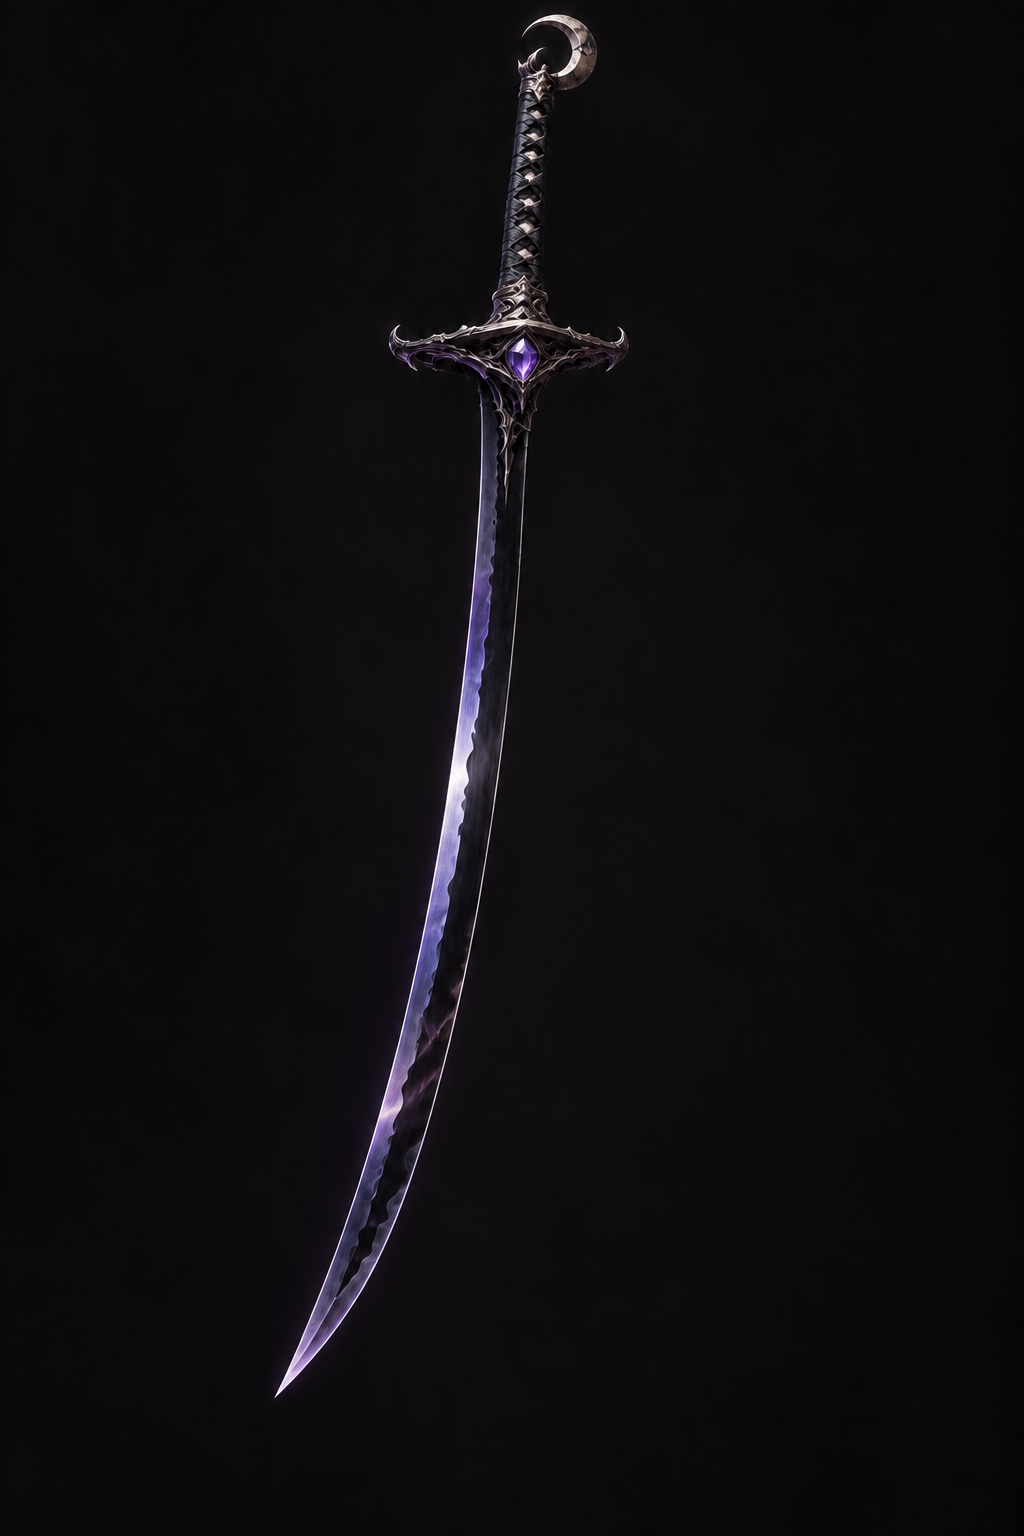
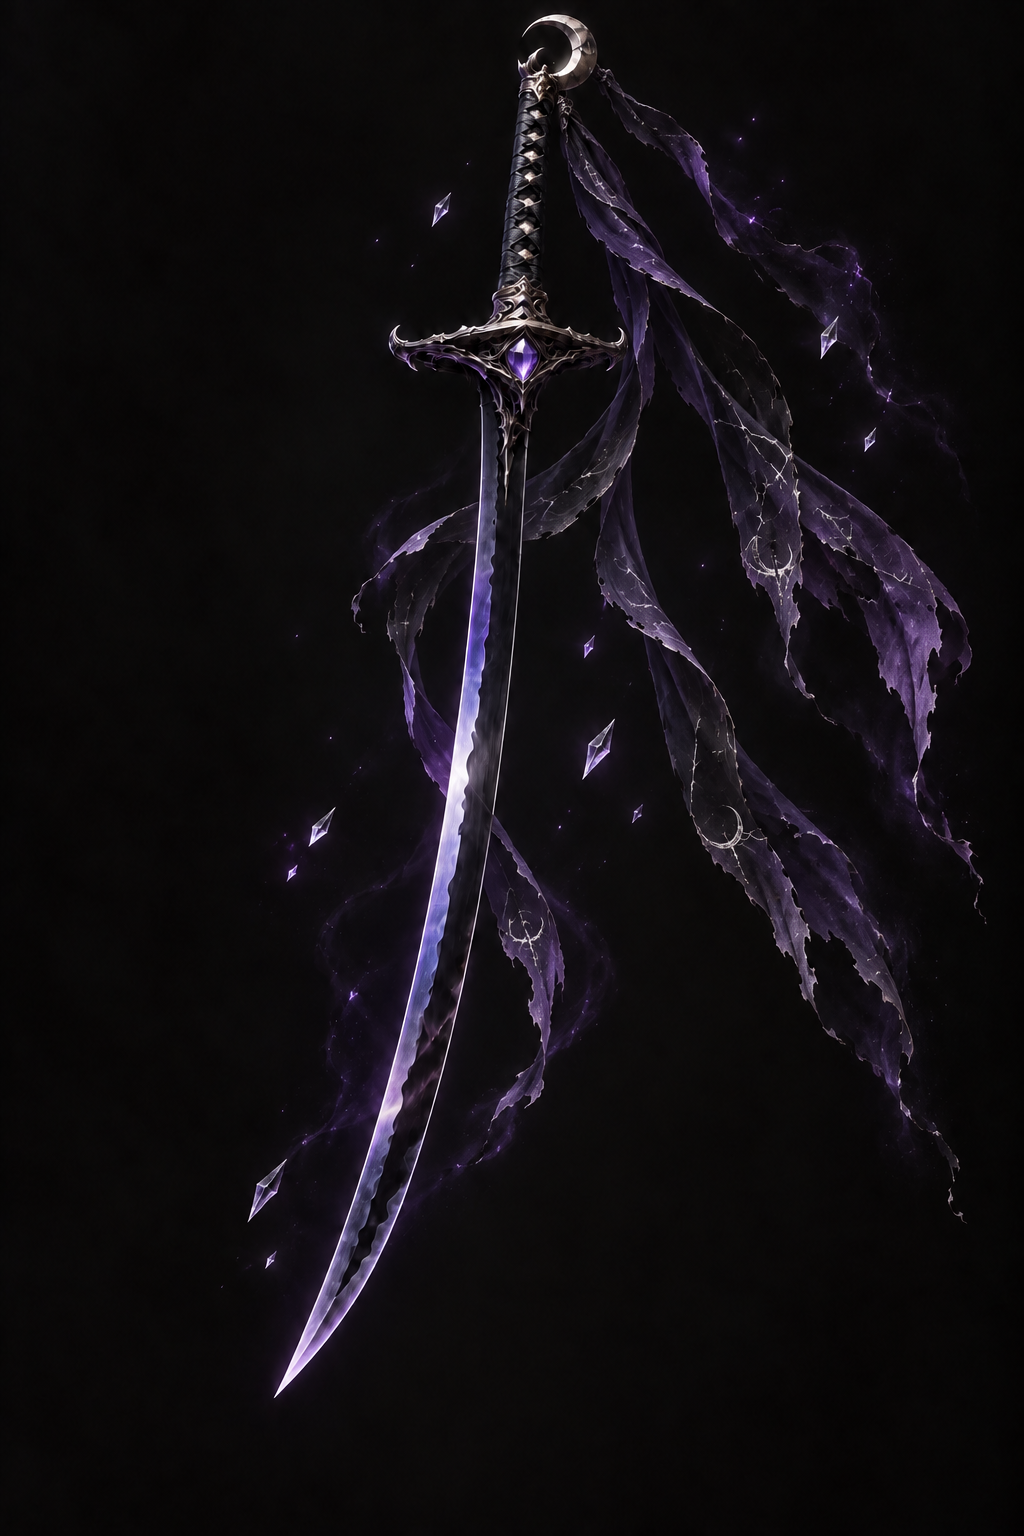
Add dream cloth effects to Yeokmonggeom

diff --git a/js/app.js b/js/app.js
@@ -723,7 +723,7 @@
   ];
   // GitHub Pages may cache files with the same path for a while. Keep the
   // artwork revision here so an art replacement is visible immediately.
-  const SWORD_ART_VERSION = '20260911-mukcheon-yeokmong-v4';
+  const SWORD_ART_VERSION = '20260911-yeokmong-cloth-v5';
 
   // A newly added sword can ship without artwork yet -- SWORD_ART_FILES[i]
   // stays an empty string until art is ready. Clearing the <img> src (not
